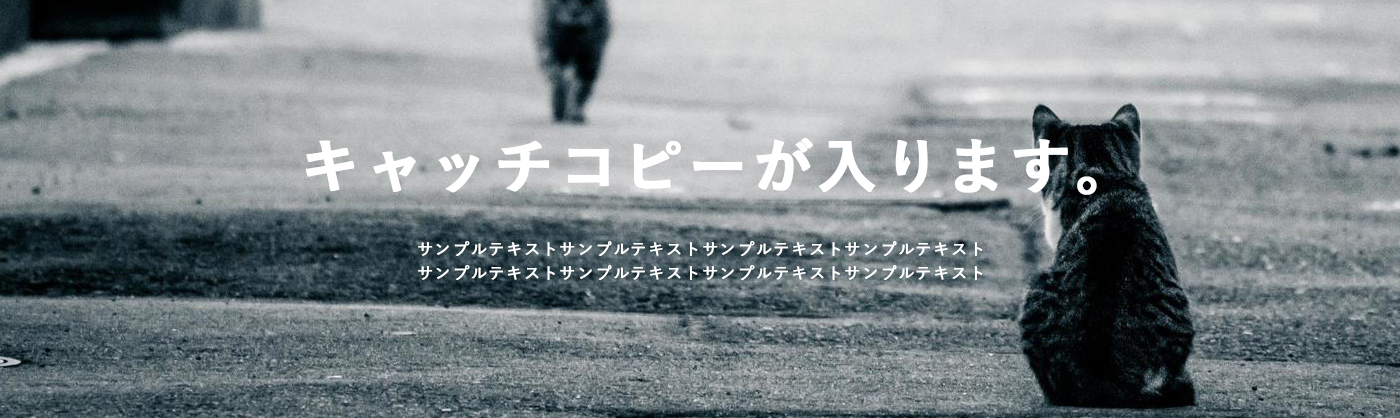
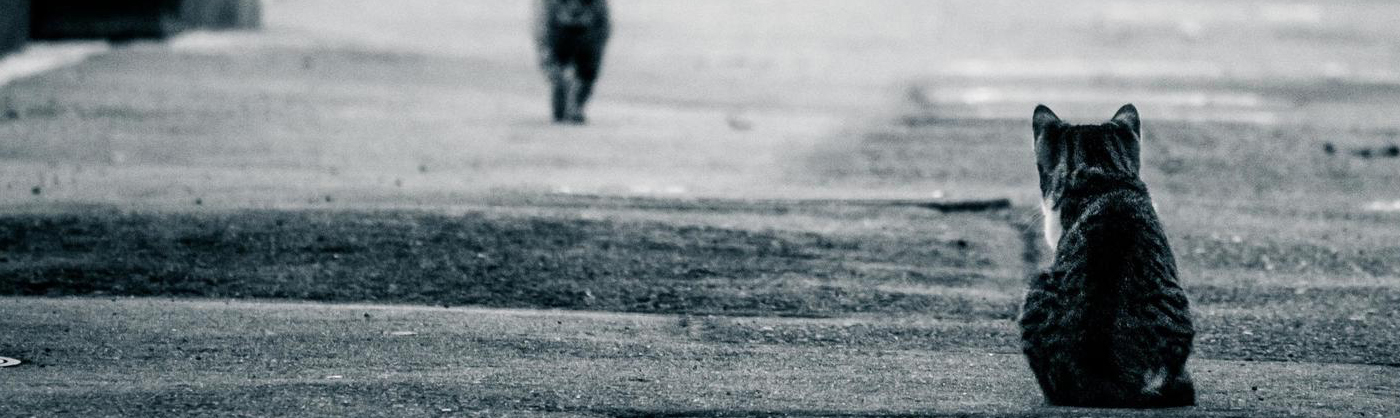
Text headings converted to text instead of being part of the slider images

Changed region(s): [[0.215, 0.311, 0.7986, 0.4665], [0.3071, 0.5598, 0.7064, 0.6842]]

diff --git a/index.html b/index.html
@@ -20,6 +20,8 @@
                 <img src="assets/images/slide3.jpg" alt="Slider Image" class="slider__gallery-image">
             </figure>
             <figure class="slider__controls">
+                <h2 class="slider__image-text slider__image-heading--main">キャッチコピーが入ります。</h2>
+                <h4 class="slider__image-text slider__image-heading--sub">サンプルテキストサンプルテキストサンプルテキストサンプルテキスト <br/> サンプルテキストサンプルテキストサンプルテキストサンプルテキスト</h4>
                 <img src="assets/images/left-arrow.png" alt="Previous Image" id="previous" class="slider__btn-trigger slider__btn-prev-next slider__btn-prev-next--previous">
                 <img src="assets/images/right-arrow.png" alt="Next Image" id="next" class="slider__btn-trigger slider__btn-prev-next slider__btn-prev-next--next">
                 <img src="assets/images/standard-pager.png" alt="First Image" id="pager-1" class="slider__btn-trigger slider__btn-pager slider__btn-pager--one">

diff --git a/assets/compiled/style.css b/assets/compiled/style.css
@@ -25,6 +25,7 @@ aside, nav, article, figure {
     letter-spacing: 2px; }
 
 .slider {
+  position: relative;
   margin-bottom: 20px;
   overflow: hidden; }
   .slider__gallery {
@@ -34,6 +35,18 @@ aside, nav, article, figure {
     left: -100%;
     text-align: left;
     font-size: 0; }
+  .slider__image-text {
+    position: absolute;
+    color: #fff; }
+  .slider__image-heading--main {
+    top: 14%;
+    left: 20%;
+    font-size: 4em; }
+  .slider__image-heading--sub {
+    top: 51%;
+    left: 29%;
+    font-size: 1em;
+    letter-spacing: 0.1em; }
   .slider__gallery-image {
     width: 25%;
     float: left; }
@@ -41,13 +54,14 @@ aside, nav, article, figure {
     position: absolute;
     cursor: pointer; }
   .slider__btn-prev-next {
-    margin-top: 12%; }
+    top: 44%; }
   .slider__btn-prev-next--previous {
-    left: 10%; }
+    left: 10%;
+    display: none; }
   .slider__btn-prev-next--next {
     right: 10%; }
   .slider__btn-pager {
-    margin-top: 25%; }
+    top: 91%; }
   .slider__btn-pager--one {
     left: 47%; }
   .slider__btn-pager--two {

diff --git a/assets/js/index.js b/assets/js/index.js
@@ -6,9 +6,8 @@ $(document).ready(function() {
         curr_index  = 1,
         pic_width = 25; // width of .slider__gallery-image
 
-    // initialize 1st pager as active and hide previous button
+    // initialize 1st pager as active
     $('#pager-' + curr_index).attr('src', 'assets/images/hover-pager.png');
-    $('#previous').hide();
       
     // clone last pic and append before 1st pic
     first_pic.before(last_pic.clone(true));  
@@ -25,7 +24,6 @@ $(document).ready(function() {
                 return false;
             }
 
-            var trigger_loop = false;
             var multiplier;       
 
             switch(btn_id) {
@@ -53,7 +51,7 @@ $(document).ready(function() {
 
             // if pager is clicked, reset slider before moving to the chosen slide
             if(btn.hasClass('slider__btn-pager')) {
-                gallery.css({ left: 0 + '%' });
+                gallery.css({ left: 0 });
             }
 
             gallery.animate({ left: '+=' + (-pic_width * multiplier + '%') }, function() {

diff --git a/assets/sass/_slider.scss b/assets/sass/_slider.scss
@@ -1,4 +1,5 @@
 .slider {
+    position: relative;
     margin-bottom: $medium-margin-padding;
     overflow: hidden;
 
@@ -9,6 +10,24 @@
         left: -100%;
         text-align: left;
         font-size: 0;
+    }
+
+    &__image-text {
+        position: absolute;
+        color: #fff;
+    }
+
+    &__image-heading--main {
+        top: 14%;
+        left: 20%;
+        font-size: 4em;
+    }
+
+    &__image-heading--sub {
+        top: 51%;
+        left: 29%;
+        font-size: 1em;
+        letter-spacing: 0.1em;
     }
 
     &__gallery-image {
@@ -22,11 +41,12 @@
     }
 
     &__btn-prev-next {
-        margin-top: 12%;
+        top: 44%;
     }
 
     &__btn-prev-next--previous {
         left: 10%;
+        display: none;
     }
 
     &__btn-prev-next--next {
@@ -34,7 +54,7 @@
     }
 
     &__btn-pager {
-        margin-top: 25%;
+        top: 91%;
     }
 
     &__btn-pager--one { 
